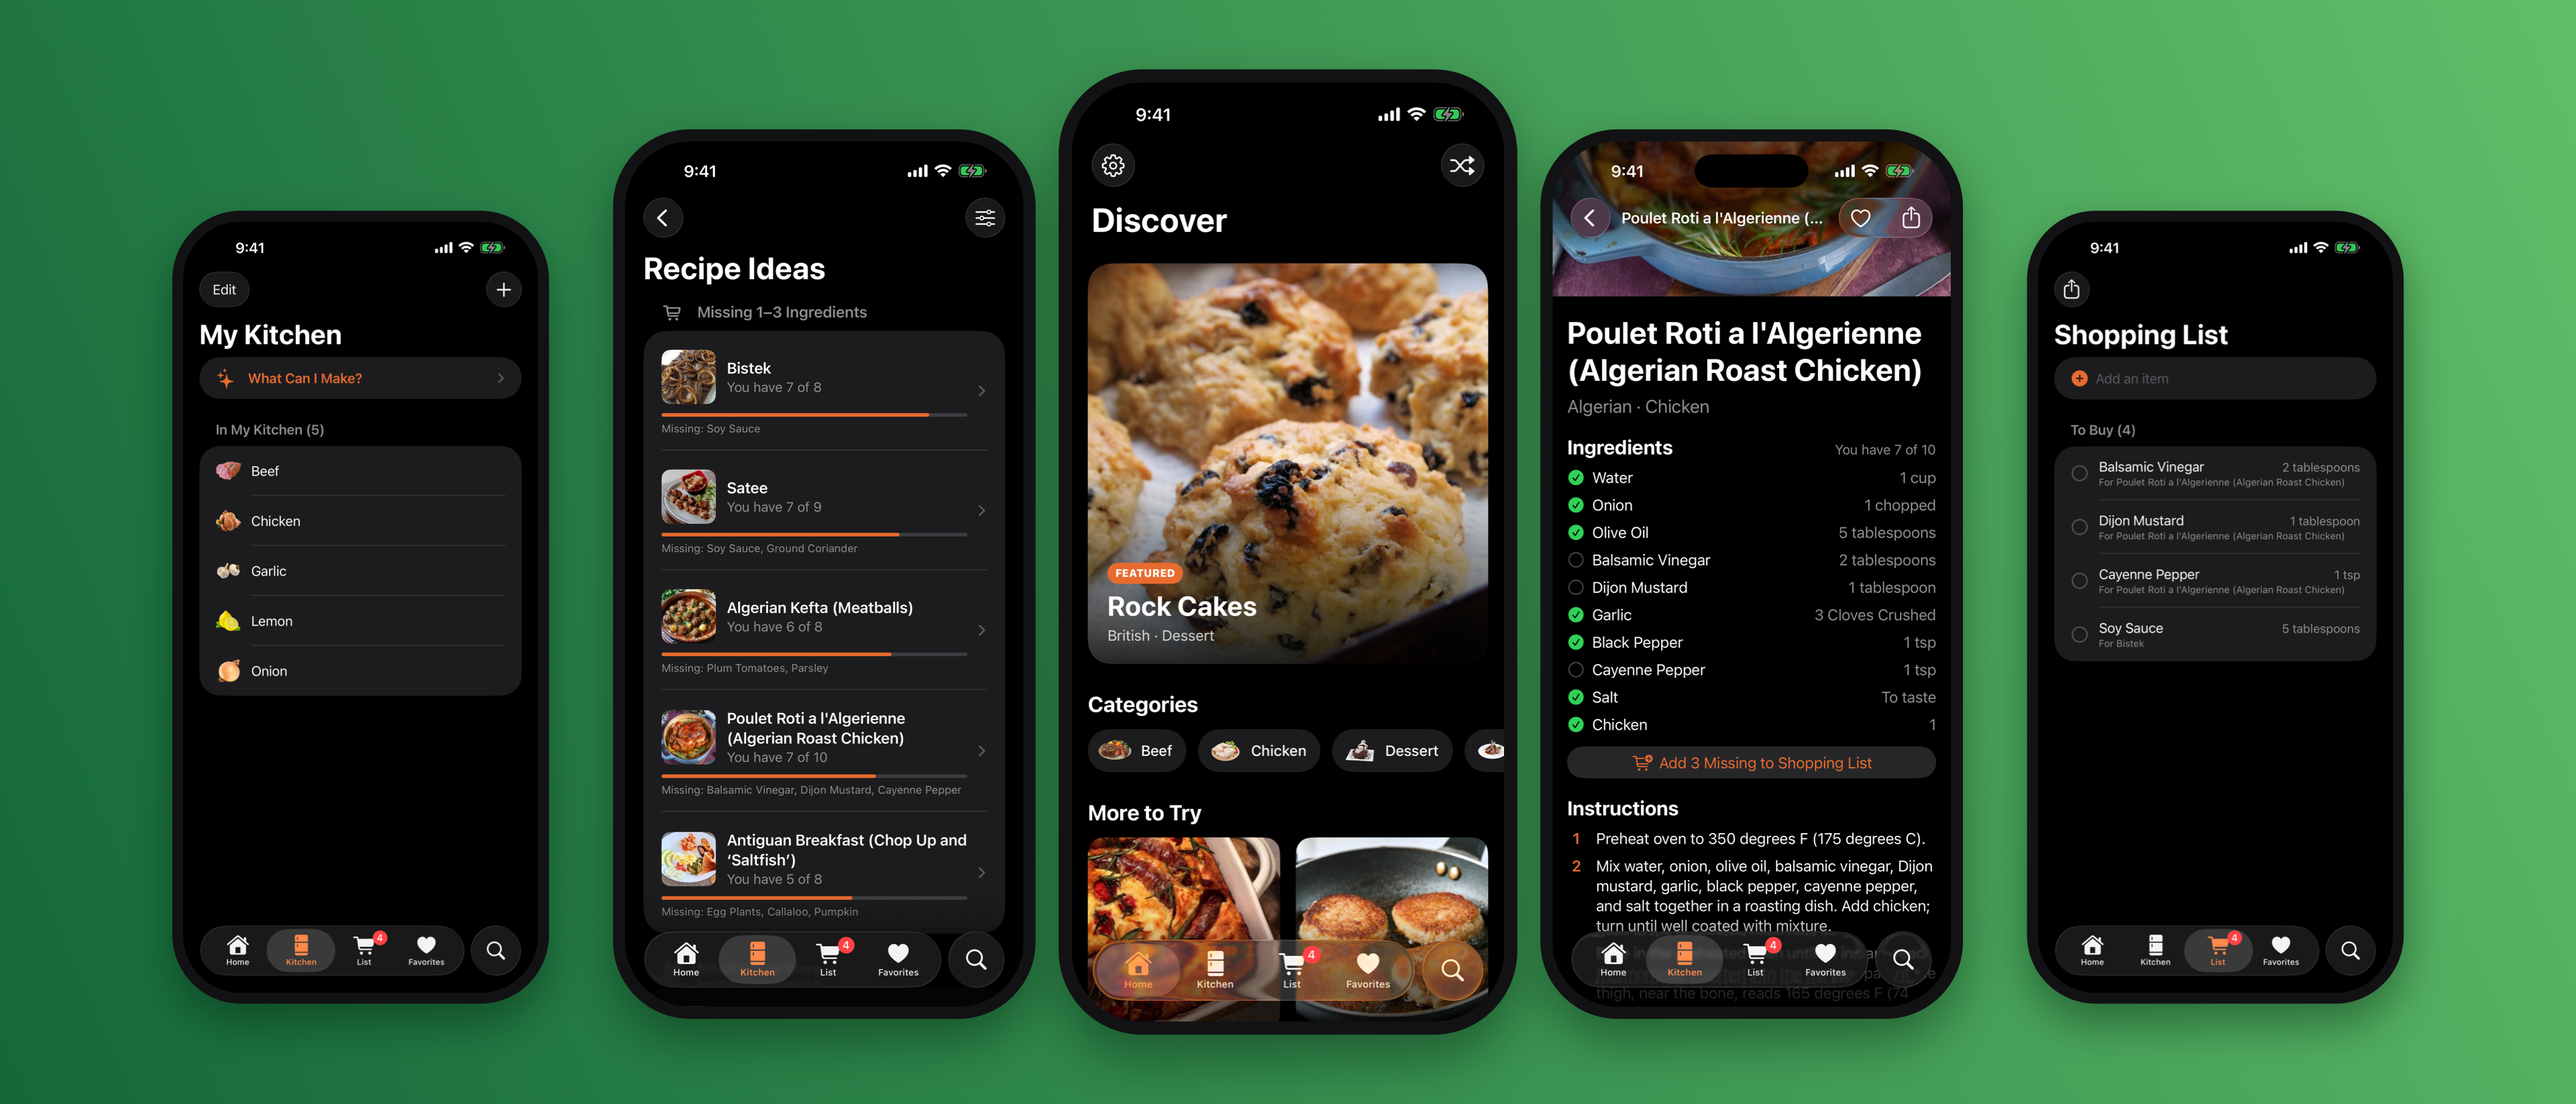
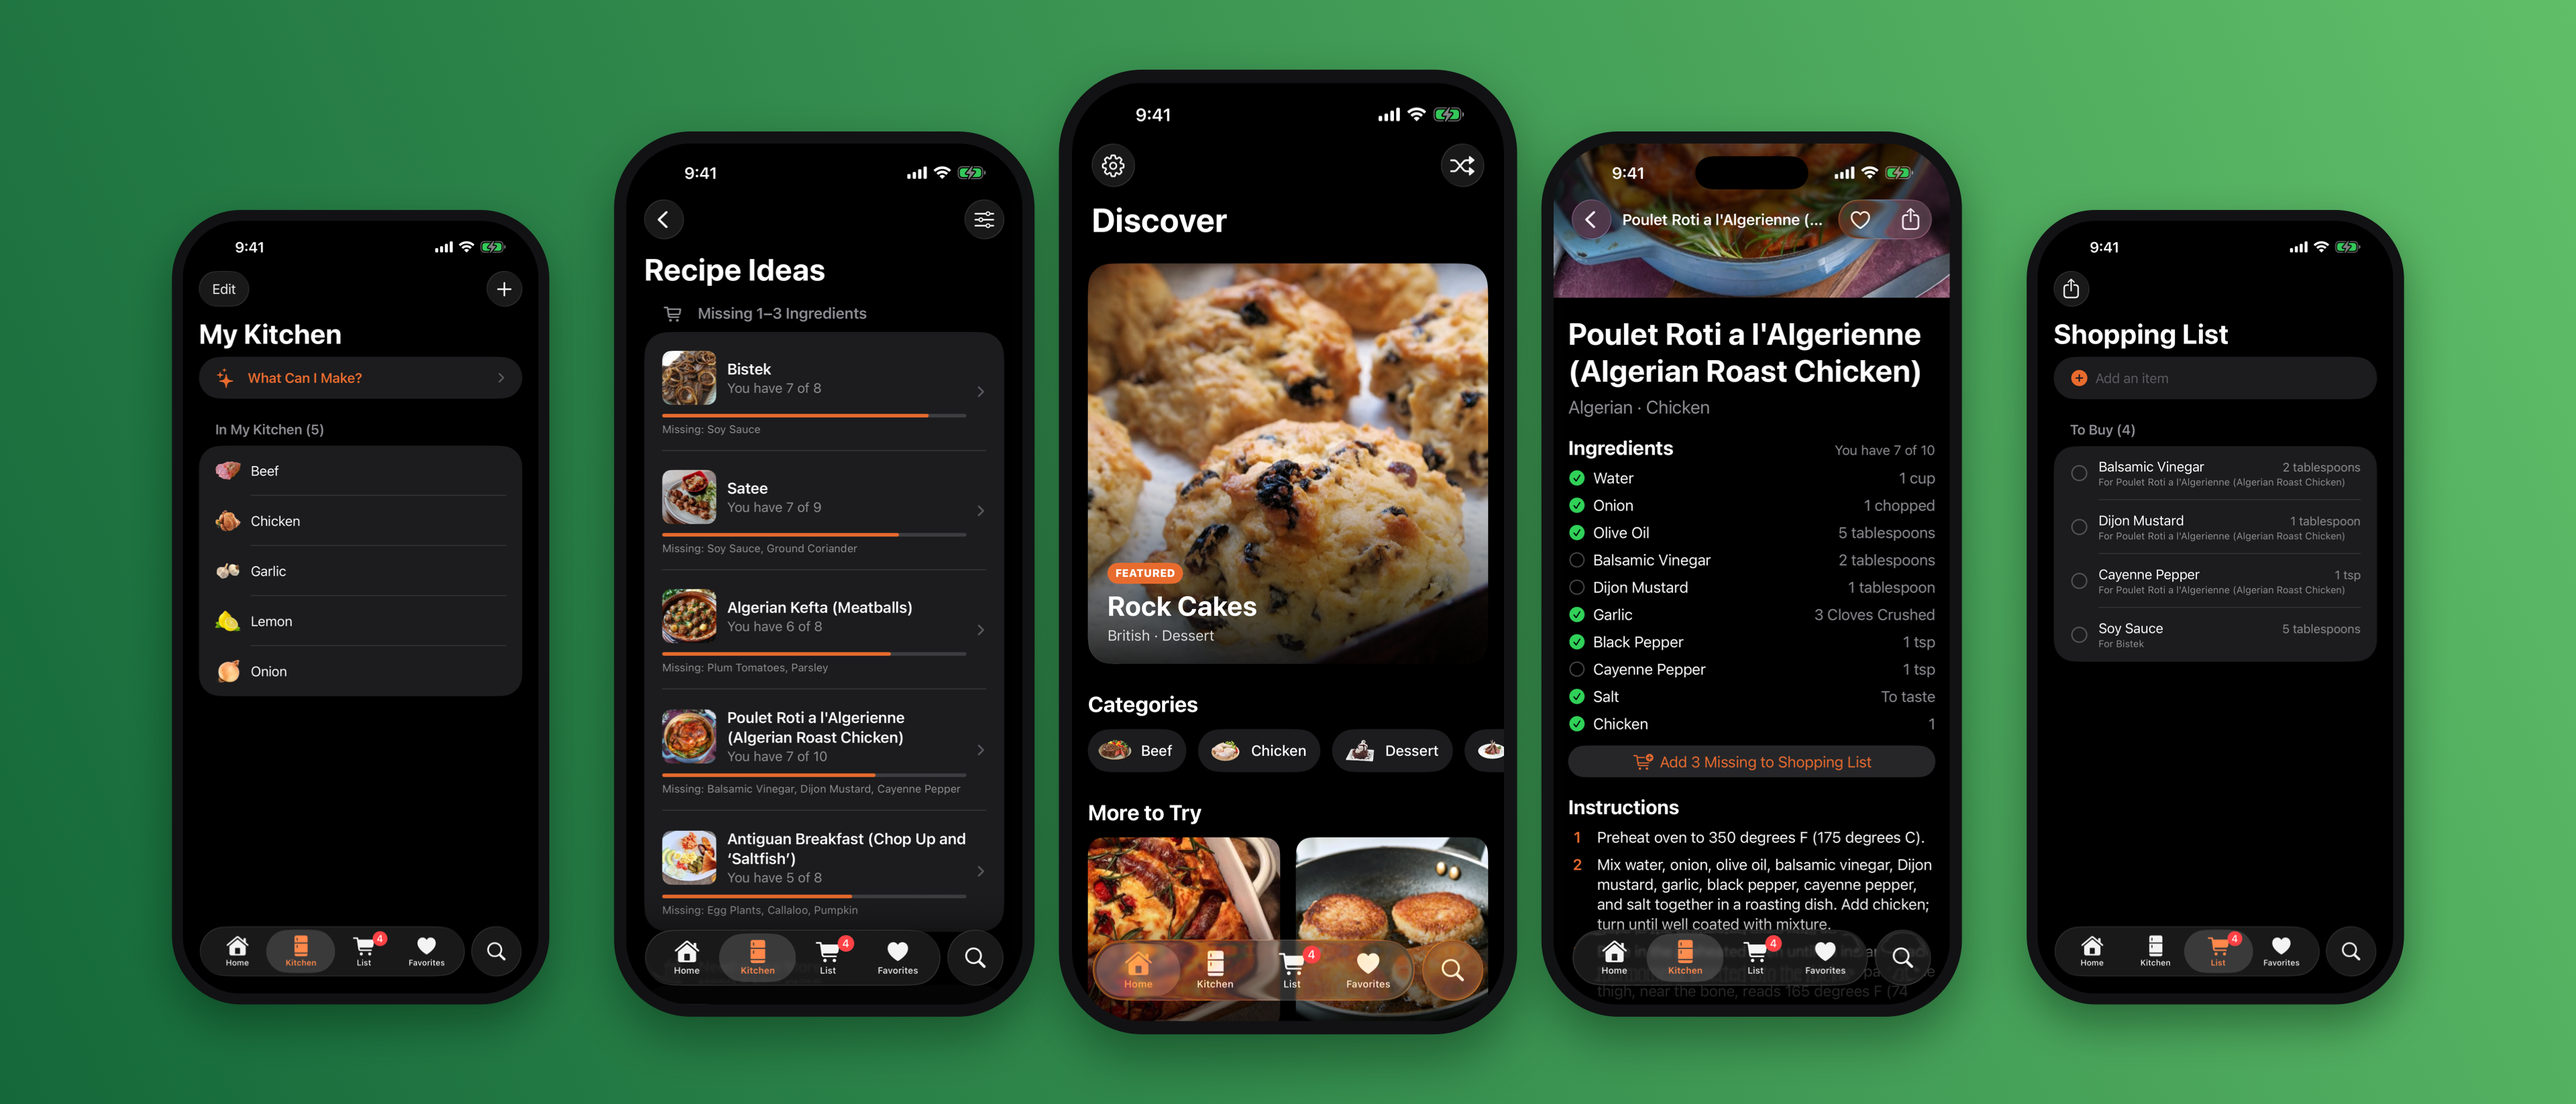
Add 5244x2950 product page header

diff --git a/Design/make_promo_images.swift b/Design/make_promo_images.swift
@@ -154,23 +154,27 @@ featureSlide("5-discover.png",
              caption: "Fresh recipes from around the world, every time you open the app.",
              phones: ["AppStore/screenshots/1-discover.png"])
 
-// Product page header (3840 x 1646): no text, since the App Store overlays the app's name and icon.
-do {
-    let headerWidth = 3840, headerHeight = 1646
+// Product page headers: no text, since the App Store overlays the app's name and icon.
+func header(width headerWidth: Int, height headerHeight: Int) {
     let hw = CGFloat(headerWidth), hh = CGFloat(headerHeight)
     let ctx = CGContext(data: nil, width: headerWidth, height: headerHeight, bitsPerComponent: 8, bytesPerRow: 0,
                         space: space, bitmapInfo: CGImageAlphaInfo.noneSkipLast.rawValue)!
     let bg = CGGradient(colorsSpace: space, colors: [rgb(20, 104, 58), rgb(96, 190, 104)] as CFArray, locations: [0, 1])!
     ctx.drawLinearGradient(bg, start: CGPoint(x: 0, y: 0), end: CGPoint(x: hw, y: hh),
                            options: [.drawsBeforeStartLocation, .drawsAfterEndLocation])
-    // Five phones in a gentle arc; the outer ones sit lower and smaller, the centre one in front.
+    // Five phones in a gentle arc, sized to the canvas height; the centre one sits in front.
     let screens = ["5-kitchen", "2-recipe-ideas", "1-discover", "3-recipe-detail", "4-shopping-list"]
     let xs: [CGFloat] = [0.14, 0.32, 0.5, 0.68, 0.86]
-    let heights: [CGFloat] = [1150, 1290, 1400, 1290, 1150]
+    let heights: [CGFloat] = [0.70, 0.78, 0.85, 0.78, 0.70]
     let ys: [CGFloat] = [0.45, 0.48, 0.5, 0.48, 0.45]
+    // Keep phones from overlapping too much on taller canvases.
+    let maxHeight = hw * 0.17 * 2868 / 1320
     for i in [0, 4, 1, 3, 2] {
         drawPhone(ctx, load("AppStore/screenshots/\(screens[i]).png"),
-                  center: CGPoint(x: hw * xs[i], y: hh * ys[i]), height: heights[i])
+                  center: CGPoint(x: hw * xs[i], y: hh * ys[i]), height: min(hh * heights[i], maxHeight * heights[i] / 0.85))
     }
-    save(ctx, "header-3840x1646.png")
+    save(ctx, "header-\(headerWidth)x\(headerHeight).png")
 }
+
+header(width: 3840, height: 1646)
+header(width: 5244, height: 2950)
